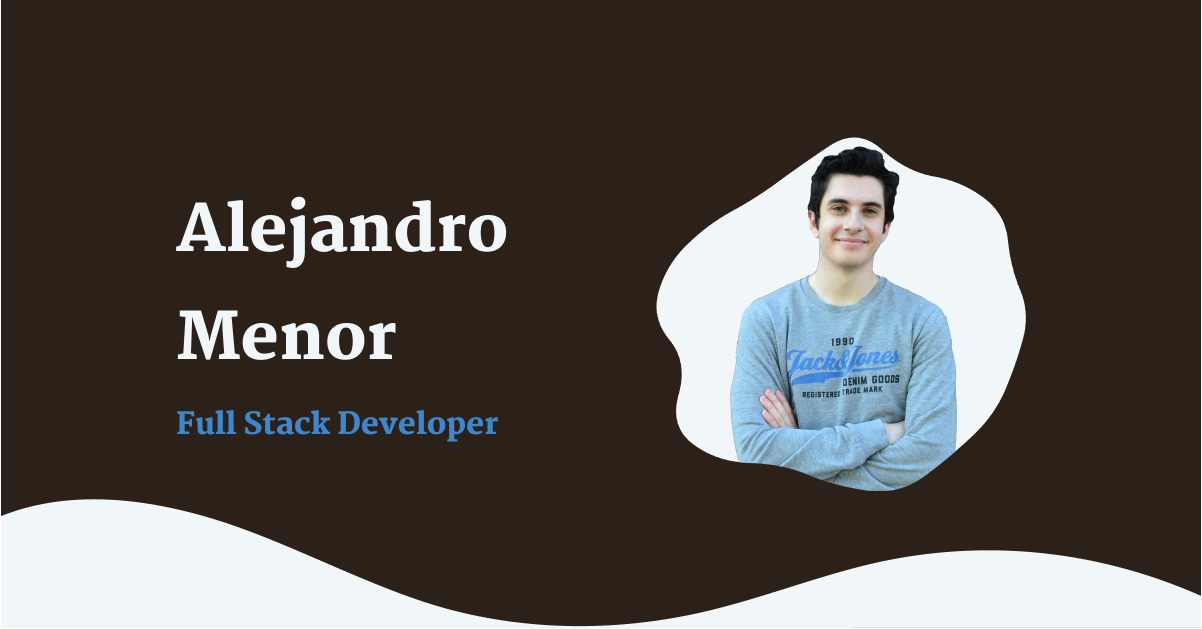
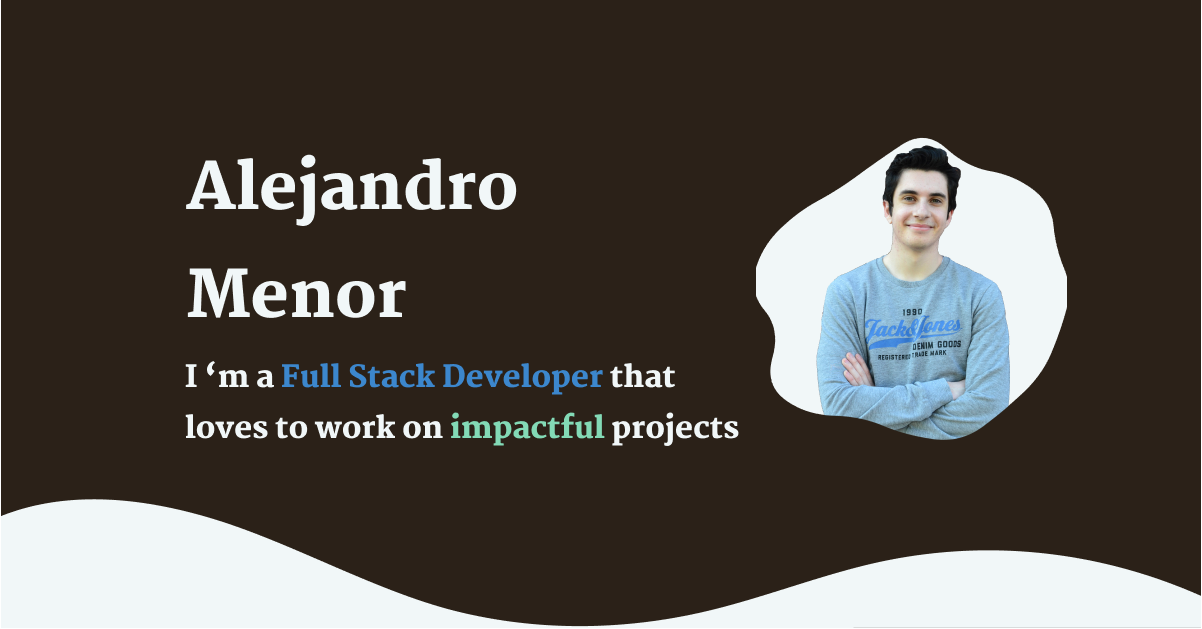
redesign landing and update meta

Changed region(s): [[0.1231, 0.2114, 0.8927, 0.7854]]

diff --git a/sections/landing.js b/sections/landing.js
@@ -15,14 +15,18 @@ export default function Landing() {
         </h1>
         <Social />
       </header>
-      <div className="2xl:w-3/4 flex flex-col-reverse lg:flex-row items-center justify-center mx-auto lg:space-x-20 xl:space-x-28 landing-content">
-        <div className="font-display text-3xl sm:text-4xl lg:text-5xl xl:text-6xl text-white mt-8 sm:mt-14 lg:mt-0">
-          <h1>
-            <u>I'm a Full Stack</u>
+      <div className="2xl:w-3/4 flex flex-col-reverse lg:flex-row items-center justify-center mx-auto lg:space-x-20 xl:space-x-28 landing-content lg:px-20">
+        <div className="font-display text-white mt-8 sm:mt-14 lg:mt-0 w-9/12 md:w-max text-center md:text-left">
+          <h1 className="text-2xl md:text-3xl lg:text-4xl xl:text-5xl">
+            I'm a <u>Full Stack Developer</u>
           </h1>
-          <h1 className="mt-2 sm:mt-6">
-            <u>Developer</u>
-          </h1>
+          <p
+            className="text-lg md:text-xl lg:text-2xl xl:text-3xl mt-4 sm:mt-6"
+            style={{ lineHeight: 1.4 }}
+          >
+            that loves to work on <span className="text-accent">impactful</span>{" "}
+            projects
+          </p>
         </div>
         <img className="landing-img" src={me.src}></img>
       </div>
